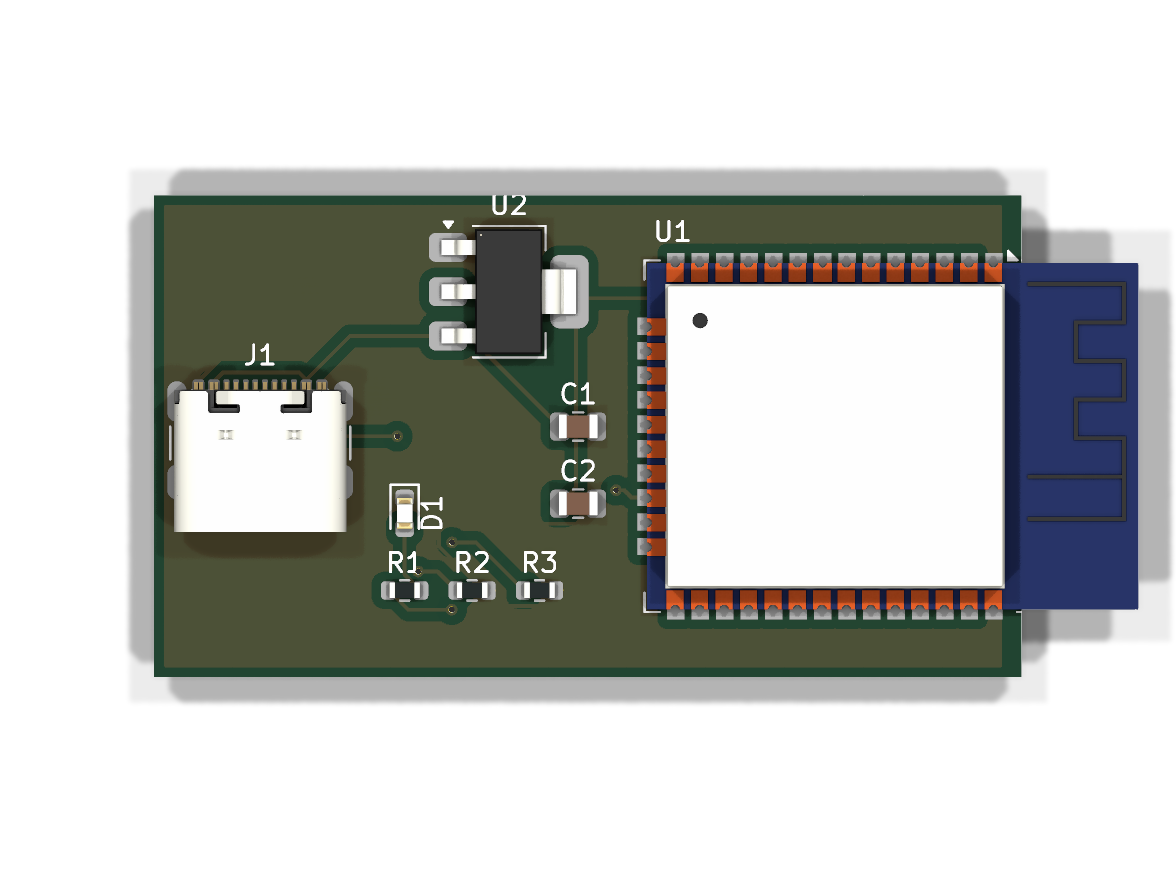
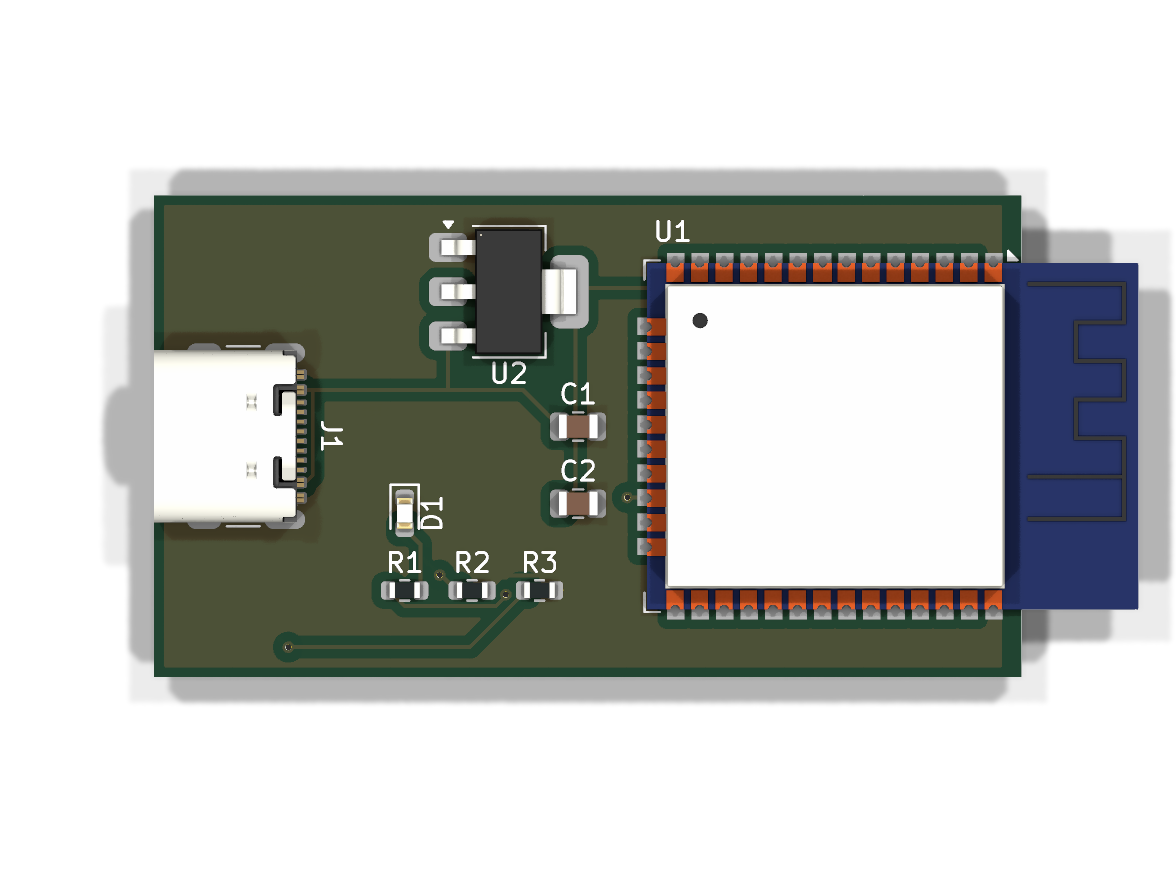
fix(esp32): USB-C faces the board edge, stitch vias no longer short; README photos
- J1 rotated 270 and slid so its "PCB Edge" line sits on the outline: the
  receptacle opening now points out of the board (it pointed inwards).
- stitch_gnd_vias: candidates are checked against foreign-net tracks/vias
  (with via radius), not only pads, and never co-located with an existing
  stitch via. The J1 move exposed 2 shorting_items (GND via on CC2/LED
  tracks); also clears the 3 holes_co_located warnings.
- U2 reference moved below the part (was clipped by the top edge); U1's
  off-board silkscreen (antenna overhang) trimmed to the outline.
- DRC: 0 errors / 0 unconnected / 0 parity; 4 hole_clearance warnings
  remain inside the GCT USB4105 library footprint (documented, not hidden).
- README: LED board built by an AI agent on Windows, regenerated ESP32
  render + schematic (Windows 11, KiCad 10.0.6, Freerouting 2.4.1),
  replacing the Linux images with the inward-facing USB-C.
- SKILL.md: pitfalls 16 (edge connectors / overhang silk) and 17 (stitch vias).

diff --git a/skills/kicad-pcb/scripts/esp32_example.py b/skills/kicad-pcb/scripts/esp32_example.py
@@ -51,7 +51,9 @@ BOARD_W, BOARD_H = 45.0, 25.0  # mm (JLCPCB min 6x6)
 # bbox center). The rot-270 WROOM frees the board midsection, so passives sit
 # in the middle column; nothing overlaps the big USB-C / SOT-223 courtyards.
 PLACEMENT = [
-    ("Connector_USB", "USB_C_Receptacle_GCT_USB4105-xx-A_16P_TopMnt_Horizontal", "J1", 5.5, 12.5, 0),
+    # rot 270: the receptacle mouth (footprint +Y) faces the LEFT board edge;
+    # gen_board then slides J1 so its "PCB Edge" line sits on x = 0
+    ("Connector_USB", "USB_C_Receptacle_GCT_USB4105-xx-A_16P_TopMnt_Horizontal", "J1", 5.5, 12.5, 270),
     ("Package_TO_SOT_SMD", "SOT-223-3_TabPin2", "U2", 18.4, 5.0, 0),
     ("Capacitor_SMD", "C_0805_2012Metric", "C1", 22.0, 12.0, 0),
     ("Capacitor_SMD", "C_0805_2012Metric", "C2", 22.0, 16.0, 0),
@@ -64,6 +66,15 @@ PLACEMENT = [
     # the board interior (x 3.3-24.3) and blocks every zone fill + DRC item.
     ("RF_Module", "ESP32-WROOM-32", "U1", 34.7, 12.5, 270),
 ]
+# connectors whose footprint carries a "PCB Edge" line on Dwgs.User: that line
+# is moved onto the left board edge so the plug opening faces outwards
+EDGE_MOUNT = {"J1"}
+REF_BELOW = {"U2"}
+# modules that overhang the board on purpose (antenna past the edge): their
+# silkscreen outline is trimmed to the board, as the fab cannot print it anyway
+OVERHANG = {"U1"}
+SILK_EDGE_MARGIN = 0.3  # mm between trimmed silkscreen and the board edge  # parts near the top edge: silkscreen reference goes under them
+
 # zone x-limit: cover the WROOM's GND pads (up to x=44) but keep 1mm from the
 # board edge; the module's antenna keepout is OFF-board (module at the edge).
 ZONE_X_MAX = 44.0
@@ -321,6 +332,15 @@ def gen_board(pcbnew, outdir: Path) -> Path:
         if xs and ys:
             cx, cy = (min(xs) + max(xs)) // 2, (min(ys) + max(ys)) // 2
             f.Move(pcbnew.VECTOR2I(int(mm(x)) - cx, int(mm(y)) - cy))
+        if ref in EDGE_MOUNT:
+            align_to_left_edge(pcbnew, f)
+        if ref in OVERHANG:
+            trim_offboard_silk(pcbnew, f)
+        if ref in REF_BELOW:  # default ref text would be clipped by the board edge
+            pads_bb = [p.GetBoundingBox() for p in f.Pads()]
+            cx = (min(b.GetLeft() for b in pads_bb) + max(b.GetRight() for b in pads_bb)) // 2
+            f.Reference().SetPosition(pcbnew.VECTOR2I(
+                cx, max(b.GetBottom() for b in pads_bb) + int(mm(1.2))))
         fps[ref] = f
         matched_pats = set()
         for pad in f.Pads():
@@ -349,10 +369,55 @@ def gen_board(pcbnew, outdir: Path) -> Path:
     return outdir / PCB
 
 
+def align_to_left_edge(pcbnew, f) -> None:
+    """Slide f along X so its vertical "PCB Edge" line (Dwgs.User) lands on x = 0."""
+    xs = [g.GetStart().x for g in f.GraphicalItems()
+          if g.GetLayer() == pcbnew.Dwgs_User and isinstance(g, pcbnew.PCB_SHAPE)
+          and g.GetShape() == pcbnew.SHAPE_T_SEGMENT and g.GetStart().x == g.GetEnd().x]
+    if not xs:
+        sys.exit(f"ERROR: {f.GetReference()} has no vertical PCB Edge line after rotation — "
+                 "check its rotation in PLACEMENT")
+    f.Move(pcbnew.VECTOR2I(-min(xs), 0))
+
+
+def trim_offboard_silk(pcbnew, f) -> None:
+    """Clip f's straight silkscreen segments to the board rectangle (minus a
+    margin); segments left shorter than 0.2 mm are removed. Copper untouched."""
+    mm = pcbnew.FromMM
+    lo_x, lo_y = mm(SILK_EDGE_MARGIN), mm(SILK_EDGE_MARGIN)
+    hi_x, hi_y = mm(BOARD_W - SILK_EDGE_MARGIN), mm(BOARD_H - SILK_EDGE_MARGIN)
+    trimmed = removed = 0
+    for g in list(f.GraphicalItems()):
+        if (g.GetLayer() not in (pcbnew.F_SilkS, pcbnew.B_SilkS)
+                or not isinstance(g, pcbnew.PCB_SHAPE) or g.GetShape() != pcbnew.SHAPE_T_SEGMENT):
+            continue
+        (x1, y1), (x2, y2) = (g.GetStart().x, g.GetStart().y), (g.GetEnd().x, g.GetEnd().y)
+        # Liang-Barsky clip of the segment against the inner rectangle
+        t0, t1, dx, dy = 0.0, 1.0, x2 - x1, y2 - y1
+        for pk, qk in ((-dx, x1 - lo_x), (dx, hi_x - x1), (-dy, y1 - lo_y), (dy, hi_y - y1)):
+            if pk == 0:
+                if qk < 0:
+                    t0, t1 = 1.0, 0.0
+                continue
+            r = qk / pk
+            t0, t1 = (max(t0, r), t1) if pk < 0 else (t0, min(t1, r))
+        if (t0, t1) == (0.0, 1.0):
+            continue
+        if t1 - t0 <= 0 or (t1 - t0) * (dx * dx + dy * dy) ** 0.5 < mm(0.2):
+            f.Remove(g)
+            removed += 1
+            continue
+        g.SetStart(pcbnew.VECTOR2I(int(x1 + t0 * dx), int(y1 + t0 * dy)))
+        g.SetEnd(pcbnew.VECTOR2I(int(x1 + t1 * dx), int(y1 + t1 * dy)))
+        trimmed += 1
+    print(f"[board] {f.GetReference()}: off-board silkscreen trimmed {trimmed}, removed {removed}")
+
+
 def stitch_gnd_vias(pcbnew, board) -> int:
     """Drop a GND via beside every SMD GND pad (F.Cu -> B.Cu zone), only where
-    it fits: candidate positions are checked against every foreign-net pad
-    (grown by clearance) before the via is committed."""
+    it fits: candidate positions are checked against every foreign-net pad,
+    track and via (grown by clearance + via radius) before the via is committed.
+    A through via touches BOTH layers, so B.Cu tracks under an SMD pad count."""
     mm = pcbnew.FromMM
     gnd = board.FindNet("GND")
     if gnd is None:
@@ -368,14 +433,34 @@ def stitch_gnd_vias(pcbnew, board) -> int:
                 bb = pad.GetBoundingBox()
                 foreign.append(bb)
 
+    # foreign-net tracks/vias as (x1, y1, x2, y2, half width); a via is a 0-length segment
+    segs = []
+    for t in board.GetTracks():
+        if t.GetNetname() == "GND":
+            continue
+        a, b = t.GetStart(), t.GetEnd()
+        # KiCad 10: a via's width is per layer (GetWidth() without one asserts)
+        w = t.GetWidth(pcbnew.F_Cu) if t.Type() == pcbnew.PCB_VIA_T else t.GetWidth()
+        segs.append((a.x, a.y, b.x, b.y, w // 2))
+
+    def seg_dist(px: int, py: int, x1: int, y1: int, x2: int, y2: int) -> float:
+        dx, dy = x2 - x1, y2 - y1
+        L2 = dx * dx + dy * dy
+        u = 0.0 if L2 == 0 else max(0.0, min(1.0, ((px - x1) * dx + (py - y1) * dy) / L2))
+        return ((px - x1 - u * dx) ** 2 + (py - y1 - u * dy) ** 2) ** 0.5
+
+    keep = clearance + via_r
     def hits_foreign(x: int, y: int) -> bool:
         for bb in foreign:
-            if (bb.GetLeft() - clearance <= x <= bb.GetRight() + clearance
-                    and bb.GetTop() - clearance <= y <= bb.GetBottom() + clearance):
+            if (bb.GetLeft() - keep <= x <= bb.GetRight() + keep
+                    and bb.GetTop() - keep <= y <= bb.GetBottom() + keep):
                 return True
-        return False
+        return any(seg_dist(x, y, x1, y1, x2, y2) < keep + hw
+                   for x1, y1, x2, y2, hw in segs)
 
     n = skipped = 0
+    placed: list[tuple[int, int]] = []  # overlapping pads (USB-C A1/B12) share a spot
+    min_pitch = 2 * via_r + clearance
     for fp in board.GetFootprints():
         for pad in fp.Pads():
             if pad.GetNetname() != "GND" or pad.GetAttribute() != pcbnew.PAD_ATTRIB_SMD:
@@ -388,7 +473,11 @@ def stitch_gnd_vias(pcbnew, board) -> int:
                      (p.x + step, p.y + step), (p.x - step, p.y - step),
                      (p.x, p.y)]  # center as last resort
             for cx, cy in cands:
+                if any(abs(cx - vx) < min_pitch and abs(cy - vy) < min_pitch
+                       for vx, vy in placed):
+                    break  # a stitch via already serves this spot
                 if not hits_foreign(cx, cy):
+                    placed.append((cx, cy))
                     via = pcbnew.PCB_VIA(board)
                     via.SetPosition(pcbnew.VECTOR2I(cx, cy))
                     via.SetNet(gnd)

diff --git a/README.md b/README.md
@@ -6,7 +6,7 @@
 Headless PCB design skill for **Linux, Windows and macOS**: native schematics,
 scripted placement, optional Freerouting autorouting (DSN/SES), DRC/ERC reporting,
 gerber/drill/BOM export and **EasyEDA / EasyEDA Pro import**. It is an optional KiCad
-automation path, not a reproduction of the GPT-6 Astra workflow. Validated end-to-end on Linux; Windows/macOS via runtime
+automation path, not a reproduction of the GPT-6 Astra workflow. Validated end-to-end on Linux and Windows 11; macOS via runtime
 resolvers + CI smoke. Every tool and path is resolved at runtime (env var > known
 location > PATH), so the same commands run on any OS.
 
@@ -85,7 +85,7 @@ Optional env overrides: `KICAD_PYTHON`, `KICAD_CLI`,
 
 | File | Purpose |
 |---|---|
-| `skills/kicad-pcb/SKILL.md` | Reviewed-design workflow + headless pipelines + 15 pitfalls |
+| `skills/kicad-pcb/SKILL.md` | Reviewed-design workflow + headless pipelines + 17 pitfalls |
 | `skills/kicad-pcb/references/api-cheatsheet.md` | Verified pcbnew Python calls (KiCad 10.0.6) + Freerouting bundle-first guide |
 | `skills/kicad-pcb/references/jlcpcb-rules.md` | JLCPCB fab/assembly rules + PCBA BOM/CPL upload workflow |
 | `skills/kicad-pcb/scripts/kicad_paths.py` | Cross-platform tool resolvers (env > known paths > PATH) |
@@ -97,19 +97,36 @@ Optional env overrides: `KICAD_PYTHON`, `KICAD_CLI`,
 | `.github/workflows/ci.yml` | Smoke matrix: ubuntu + windows (syntax + frontmatter + preflight) |
 | `CONTRIBUTING.md` | Ground rules for humans and AI agents who want to improve this skill |
 
+## Example: LED board built autonomously by an AI agent on Windows
+
+An AI coding agent (Claude Code) cloned this repo on a stock Windows 11 laptop with
+only KiCad 10.0.6 installed (no Freerouting, no Java), ran `simple_board.py` and
+produced this board on its own: schematic, placement, routing, ERC 0 / DRC 0 /
+unconnected 0 / schematic parity 0, JLCPCB-ready gerber zip and the 3D render below.
+
+```bash
+python skills/kicad-pcb/scripts/simple_board.py --out led-board --vin 3.3 --led-ma 2
+```
+
+![LED board generated headless on Windows](assets/simple-led-windows.png)
+
 ## Example: ESP32 + LED + USB-C (generated 100% headless)
 
 Minimal dev board — ESP32-WROOM-32, USB-C receptacle (5V), AMS1117-3.3 regulator,
 LED + series resistor. Generated end-to-end by `esp32_example.py`: schematic,
-placement, autorouting, DRC, then exported renders.
+placement (USB-C mouth flush with the board edge, antenna past the edge),
+Freerouting autorouting, GND stitching + pours, DRC, then exported renders.
 
-3D render (Linux) | Schematic (Linux)
+3D render (Windows 11, KiCad 10.0.6) | Schematic
 ---|---
-![3D render](assets/example-3d-linux.png) | ![Schematic](assets/example-schematic-linux.png)
+![3D render](assets/example-3d-windows.png) | ![Schematic](assets/example-schematic-windows.png)
 
-Windows renders are generated by CI on every push (`artifacts` in the Actions tab):
-[example-3d-windows.png](assets/example-3d-windows.png) ·
-[example-schematic-windows.png](assets/example-schematic-windows.png).
+DRC: 0 errors, 0 unconnected, 0 parity. The 4 remaining `hole_clearance` warnings
+(0.194 mm vs the 0.25 mm default) are inside the GCT USB4105 library footprint
+itself (its NPTH alignment pegs next to its own GND pads, per the maker's land
+pattern) — confirm against your fab's NPTH-to-copper limit rather than relaxing
+the rule. Known gap: the `AMS1117-3.3` symbol is derived (`extends`), so U2 is not
+yet drawn in the generated schematic (the board has it).
 
 ## Validated proof: ESP32 dev board (previous full design)
 

diff --git a/skills/kicad-pcb/SKILL.md b/skills/kicad-pcb/SKILL.md
@@ -116,6 +116,15 @@ nothing to configure.
     and footprints `SetPath(KIID_PATH("/<symbol uuid>"))` + `SetFPID(LIB_ID(lib, fp))`
     so `pcb drc --schematic-parity` can match them (see `simple_board.py`). Check labels and actual netlist connectivity; investigate each `pin_not_driven` finding against the intended power source instead of suppressing it categorically.
 15. Imported EasyEDA boards keep the ORIGINAL design rules of the source project — expect DRC violations against KiCad/JLCPCB defaults (a real import showed 498). Triage them; don't blanket-fix.
+16. Edge connectors (USB-C etc.): rotate so the mouth faces OUT and slide the
+    footprint until its `PCB Edge` line (Dwgs.User) sits on the outline — a
+    rot-0 horizontal receptacle points its opening INTO the board. Modules that
+    overhang on purpose (ESP32 antenna) leave silkscreen past the edge: trim it
+    (`silk_edge_clearance`) instead of ignoring the check.
+17. Post-route stitching vias go through BOTH layers: test candidate spots against
+    foreign-net tracks and vias (not only pads) and against vias already placed,
+    or a routing change silently turns into `shorting_items` / `holes_co_located`.
+    KiCad 10: a via's width is per layer, `via.GetWidth(pcbnew.F_Cu)`.
 
 ## JLCPCB-class fab rules (2-layer)
 
